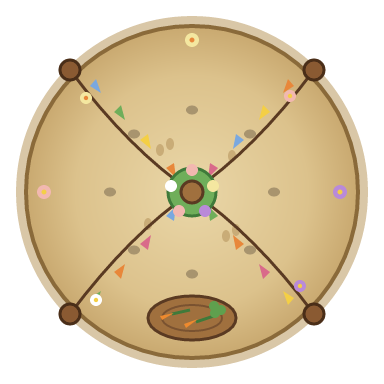
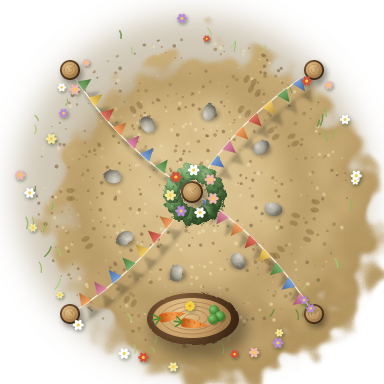
Festplatz im neuen Stil: festgetretener Tanzplatz, Steinkreis, Wimpelketten mit Schatten, Baumstumpf als Festtafel

diff --git a/tools/draw_art.py b/tools/draw_art.py
@@ -689,6 +689,118 @@ def burrow():
     s.save('einrichtung/eingang.svg')
 
 
+def log_end(s, cx, cy, r, rings=4):
+    """Ein Holzstamm von oben: Rinde außen, helles Holz mit Jahresringen innen, Schatten daneben."""
+    out = (f'<circle cx="{f(cx + r * 0.25)}" cy="{f(cy + r * 0.35)}" r="{f(r * 1.05)}" fill="#1e1408" opacity="0.4" {s.blur(r * 0.25)}/>'
+           f'<circle cx="{f(cx)}" cy="{f(cy)}" r="{f(r)}" fill="{s.radial(cx - r * 0.3, cy - r * 0.3, r * 1.3, [(0, "#8a6440"), (1, "#3e2814")])}"/>'
+           f'<circle cx="{f(cx)}" cy="{f(cy)}" r="{f(r * 0.82)}" fill="{s.radial(cx - r * 0.2, cy - r * 0.25, r, [(0, "#e8c890"), (0.7, "#c49a64"), (1, "#a07a4a")])}"/>')
+    out += ''.join(f'<circle cx="{f(cx)}" cy="{f(cy)}" r="{f(r * 0.82 * k / (rings + 1))}" fill="none" stroke="#8a643c" '
+                   f'stroke-width="{f(max(0.6, r * 0.03))}" opacity="0.55"/>' for k in range(1, rings + 1))
+    out += f'<path d="M{f(cx)} {f(cy)} l{f(r * 0.5)} {f(-r * 0.45)}" stroke="#6e4c2c" stroke-width="{f(max(0.6, r * 0.04))}" opacity="0.5"/>'
+    return out
+
+
+def flower(s, x, y, r, petal, middle='#f4cf45', n=6):
+    petals = ''.join(f'<ellipse cx="{f(x + math.cos(i * math.tau / n) * r * 0.55)}" cy="{f(y + math.sin(i * math.tau / n) * r * 0.55)}" '
+                     f'rx="{f(r * 0.5)}" ry="{f(r * 0.32)}" transform="rotate({f(i * 360 / n)} {f(x + math.cos(i * math.tau / n) * r * 0.55)} '
+                     f'{f(y + math.sin(i * math.tau / n) * r * 0.55)})" fill="{petal}"/>' for i in range(n))
+    return (f'<circle cx="{f(x + 1)}" cy="{f(y + 1.5)}" r="{f(r * 1.1)}" fill="#1e3014" opacity="0.3" {s.blur(r * 0.3)}/>'
+            f'{petals}<circle cx="{f(x)}" cy="{f(y)}" r="{f(r * 0.3)}" fill="{middle}"/>')
+
+
+def festival():
+    s = Svg(384, 384, 'Festplatz von oben, 3 × 3 Felder: ein festgetretener Tanzplatz mit Steinkreis, Blumenmast in der Mitte, '
+            'Wimpelketten zu vier Pfosten, eine Festtafel auf einem Baumstumpf und Blumen am Rand', 81)
+    c = 192
+    # Der Platz: festgetretene Erde, zum Rand hin weich ins Gras.
+    s.add(f'<circle cx="{c}" cy="{c}" r="176" fill="#8a7448" opacity="0.4" {s.blur(14)}/>')
+    s.add(f'<g {s.rough(10, 0.03)}><circle cx="{c}" cy="{c}" r="160" '
+          f'fill="{s.radial(170, 160, 190, [(0, "#e2cc9c"), (0.6, "#ccb07a"), (1, "#b0925c")])}" {s.blur(4)}/></g>')
+    place = s.clip(f'<circle cx="{c}" cy="{c}" r="156"/>')
+    grain = ''.join(f'<circle cx="{f(x)}" cy="{f(y)}" r="{f(s.rng.uniform(0.6, 2))}" fill="{s.rng.choice(["#9a7a4c", "#f0dcb0", "#7e6440"])}" opacity="0.6"/>'
+                    for x, y in s.scatter(900, 30, 30, 354, 354))
+    # Ein festgetretener Ring vom Tanzen, etwas dunkler.
+    ring = f'<circle cx="{c}" cy="{c}" r="112" fill="none" stroke="#a88a58" stroke-width="30" opacity="0.45" {s.blur(8)}/>'
+    tufts = s.strokes([(x, y) for x, y in s.scatter(160, 20, 20, 364, 364) if 140 < math.hypot(x - c, y - c) < 172],
+                      -90, 9, 1.4, ['#8ab858', '#5e8a34', '#a8cc70'], 0.8, 0.6, 0.2)
+    paws = ''
+    for _ in range(14):
+        a, d = s.rng.uniform(0, math.tau), s.rng.uniform(95, 130)
+        x, y = c + math.cos(a) * d, c + math.sin(a) * d
+        rot = math.degrees(a) + 90
+        paws += (f'<g transform="rotate({f(rot)} {f(x)} {f(y)})" fill="#8a6c40" opacity="0.5">'
+                 f'<ellipse cx="{f(x - 4)}" cy="{f(y)}" rx="2.6" ry="4.4"/><ellipse cx="{f(x + 4)}" cy="{f(y)}" rx="2.6" ry="4.4"/></g>')
+    s.add(f'<g {place}>{grain}{ring}{paws}</g>{tufts}')
+
+    # Der Steinkreis.
+    for i in range(8):
+        a = i * math.tau / 8 + 0.2
+        x, y = c + math.cos(a) * 82, c + math.sin(a) * 82
+        s.add(f'<ellipse cx="{f(x + 2)}" cy="{f(y + 3)}" rx="9" ry="6.5" fill="#2a2418" opacity="0.4" {s.blur(2)}/>'
+              f'<g {s.rough(1.6, 0.2)}><ellipse cx="{f(x)}" cy="{f(y)}" rx="9" ry="6.5" transform="rotate({f(math.degrees(a))} {f(x)} {f(y)})" '
+              f'fill="{s.radial(x - 3, y - 3, 11, [(0, "#d8d4c8"), (0.6, "#a8a496"), (1, "#6e6a5e")])}"/></g>')
+
+    # Wimpelketten vom Mast zu den Pfosten, mit Schatten am Boden.
+    posts = [(70, 70), (314, 70), (314, 314), (70, 314)]
+    colors = ['#d8503a', '#f0c040', '#5a9a48', '#5a8ad0', '#d86a90', '#f08a3a']
+    for k, (px, py) in enumerate(posts):
+        mx, my = (c + px) / 2 + (py - c) * 0.12, (c + py) / 2 - (px - c) * 0.12
+        line = f'M{c} {c} Q{f(mx)} {f(my)} {px} {py}'
+        s.add(f'<path d="{line}" transform="translate(8 12)" stroke="#1e1408" stroke-width="2" fill="none" opacity="0.25" {s.blur(2)}/>')
+        flags, shadows = '', ''
+        for j in range(1, 9):
+            u = j / 9
+            x = (1 - u) ** 2 * c + 2 * (1 - u) * u * mx + u * u * px
+            y = (1 - u) ** 2 * c + 2 * (1 - u) * u * my + u * u * py
+            dx, dy = 2 * (1 - u) * (mx - c) + 2 * u * (px - mx), 2 * (1 - u) * (my - c) + 2 * u * (py - my)
+            n = math.hypot(dx, dy)
+            tx, ty, nx, ny = dx / n, dy / n, -dy / n, dx / n
+            tri = f'M{f(x - tx * 6)} {f(y - ty * 6)} L{f(x + tx * 6)} {f(y + ty * 6)} L{f(x + nx * 13)} {f(y + ny * 13)} Z'
+            col = colors[(j + k) % len(colors)]
+            shadows += f'<path d="{tri}" transform="translate(8 12)" fill="#1e1408" opacity="0.22"/>'
+            flags += (f'<path d="{tri}" fill="{s.linear(x, y, x + nx * 13, y + ny * 13, [(0, light(col, 0.2)), (1, dark(col, 0.25))])}"/>')
+        s.add(f'<g {s.blur(1.5)}>{shadows}</g>')
+        s.add(f'<path d="{line}" stroke="#f4ecd8" stroke-width="1.4" fill="none"/>{flags}')
+    for px, py in posts:
+        s.add(log_end(s, px, py, 10, 2))
+
+    # Der Blumenmast: ein Kranz aus Laub und Blumen um das Ende des Mastes.
+    wreath = [(c + math.cos(a) * 22, c + math.sin(a) * 22, 9) for a in [i * math.tau / 14 for i in range(14)]]
+    foliage(s, wreath, '#4a8a34', 3.5, box=(c - 32, c - 32, c + 32, c + 32))
+    for i, col in enumerate(['#f2b8b0', '#ffffff', '#b98ad9', '#f4e7a0', '#d8503a', '#ffffff', '#f2b8b0']):
+        a = i * math.tau / 7 + 0.3
+        s.add(flower(s, c + math.cos(a) * 22, c + math.sin(a) * 22, 5.5, col))
+    s.add(log_end(s, c, c, 11, 3))
+
+    # Die Festtafel: ein breiter Baumstumpf mit Möhren, Klee und einer Löwenzahnblüte.
+    tx, ty = c, 318
+    s.add(f'<ellipse cx="{tx + 8}" cy="{ty + 10}" rx="50" ry="30" fill="#1e1408" opacity="0.4" {s.blur(6)}/>')
+    s.add(f'<g {s.rough(2, 0.15)}><ellipse cx="{tx}" cy="{ty}" rx="46" ry="26" fill="{s.radial(tx - 14, ty - 10, 56, [(0, "#8a6440"), (1, "#3e2814")])}"/></g>')
+    s.add(f'<ellipse cx="{tx}" cy="{ty}" rx="39" ry="20" fill="{s.radial(tx - 10, ty - 6, 44, [(0, "#e8c890"), (0.7, "#c49a64"), (1, "#a07a4a")])}"/>')
+    s.add(''.join(f'<ellipse cx="{tx}" cy="{ty}" rx="{f(39 * k / 5)}" ry="{f(20 * k / 5)}" fill="none" stroke="#8a643c" stroke-width="1" opacity="0.5"/>'
+                  for k in range(1, 5)))
+    for x, y, rot in ((tx - 20, ty - 2, -12), (tx + 2, ty + 6, 8)):
+        g = s.linear(-10, 0, 12, 0, [(0, '#c45a14'), (0.5, '#f4a050'), (1, '#e07a2a')])
+        s.add(f'<g transform="translate({x} {y}) rotate({rot})">'
+              f'<path d="M-2 1.5 C4 -1 10 -1 14 0 C10 1 4 4 -2 4 Z" fill="#1e1408" opacity="0.35"/>'
+              f'<path d="M-12 -4 C-4 -6 6 -3 14 0 C6 3 -4 6 -12 4 C-14 2 -14 -2 -12 -4 Z" fill="{g}"/>'
+              '<path d="M-6 -3 l1 2 M0 -2.5 l1 2 M6 -1.4 l1 1.6" stroke="#a84a14" stroke-width="0.8" fill="none"/>'
+              '<path d="M-12 0 l-6 -5 M-12 0 l-8 0 M-12 0 l-6 5" stroke="#4e8a30" stroke-width="1.6" stroke-linecap="round"/></g>')
+    for x, y in ((tx + 22, ty - 8), (tx + 28, ty - 2), (tx + 21, ty + 1)):
+        s.add(f'<circle cx="{x + 1}" cy="{y + 1.5}" r="5" fill="#1e3014" opacity="0.3"/>'
+              f'<circle cx="{x}" cy="{y}" r="5" fill="{s.radial(x - 1.5, y - 1.5, 6, [(0, "#8ac870"), (1, "#3a7a2c")])}"/>')
+    s.add(flower(s, tx - 2, ty - 12, 5, '#f4cf45', '#e8a820', 10))
+
+    # Blumen am Rand des Platzes.
+    for _ in range(26):
+        a, d = s.rng.uniform(0, math.tau), s.rng.uniform(150, 176)
+        x, y = c + math.cos(a) * d, c + math.sin(a) * d
+        if 8 < x < 376 and 8 < y < 376:
+            s.add(flower(s, x, y, s.rng.uniform(3.5, 5.5), s.rng.choice(['#ffffff', '#ffffff', '#f2b8b0', '#b98ad9', '#f4e7a0', '#d8503a'])))
+    s.save('einrichtung/festplatz.svg')
+
+
+festival()
 burrow()
 rabbit()
 fox()
